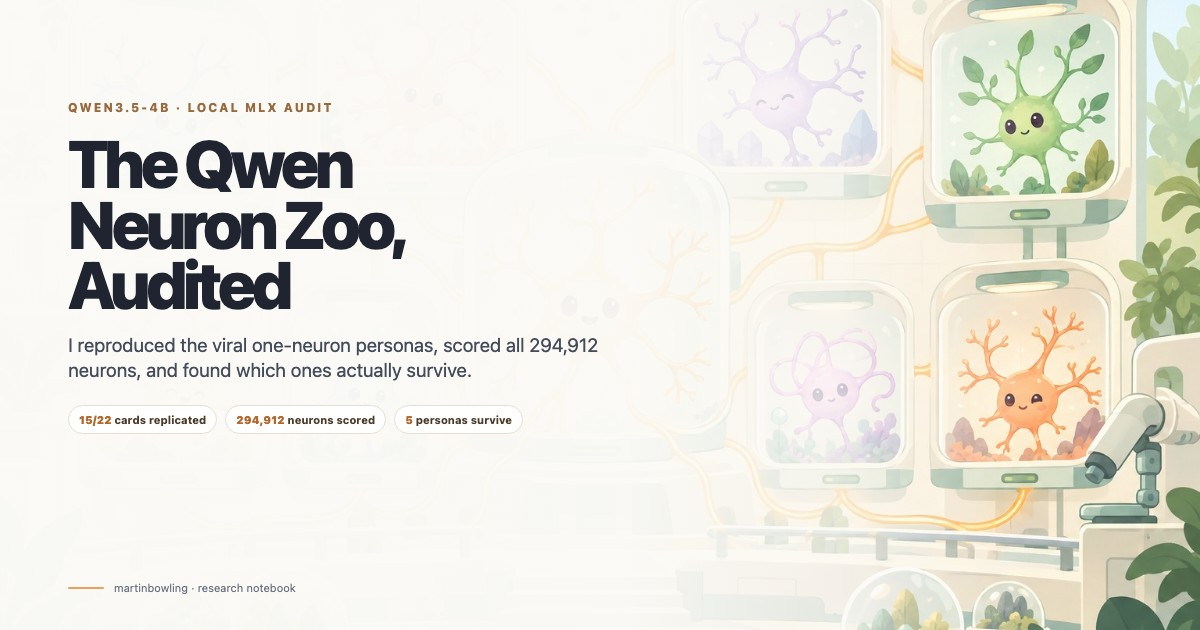
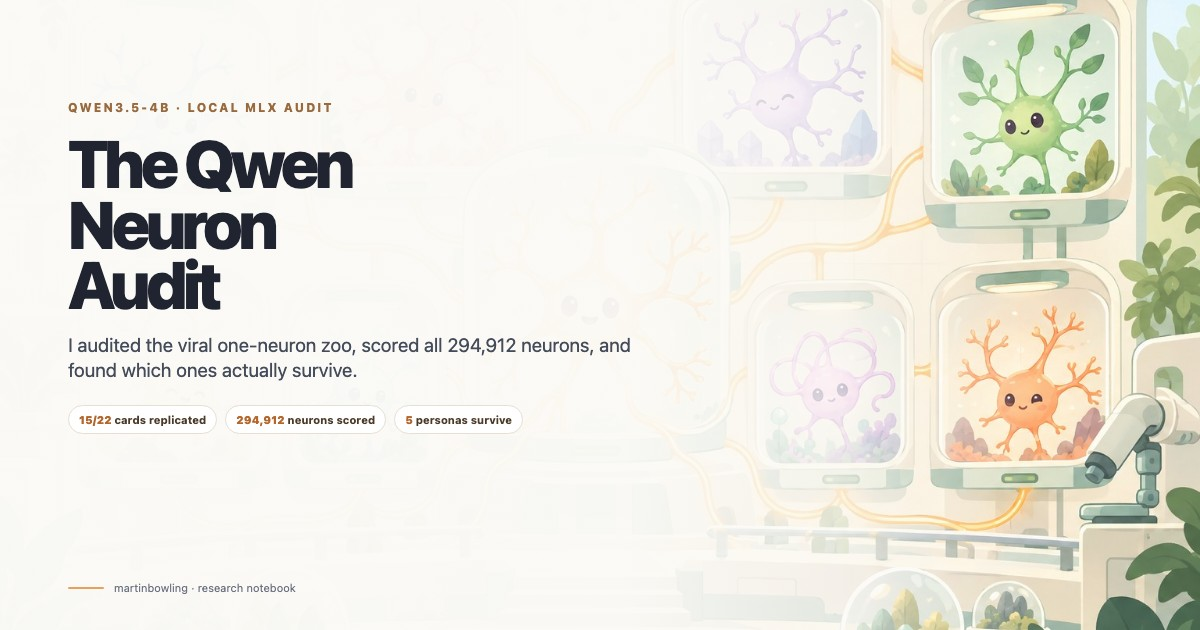
Rename project to Qwen Neuron Audit

Changed region(s): [[0.0617, 0.5127, 0.5242, 0.6032], [0.185, 0.3016, 0.3392, 0.5127]]

diff --git a/zoo.html b/zoo.html
@@ -3,7 +3,7 @@
 <head>
 <meta charset="utf-8">
 <meta name="viewport" content="width=device-width, initial-scale=1">
-<title>Qwen Neuron Zoo — Local Edition</title>
+<title>Qwen Neuron Audit — Local Edition</title>
 <style>
   :root {
     --ink:#1f2430; --muted:#687083; --line:#e7e3dc; --paper:#fbfaf7;
@@ -62,7 +62,7 @@
 <body>
 <div class="wrap">
   <div class="eyebrow">Qwen3.5-4B · MLX · local replication</div>
-  <h1>Qwen Neuron Zoo</h1>
+  <h1>Qwen Neuron Audit</h1>
   <p class="lede">I loaded the real <b>Qwen3.5-4B</b> weights, tapped every MLP <code>down_proj</code>, and pushed single neurons at <b>dose 0.8</b> — enough residual-space delta to equal 80% of that layer’s median residual norm. I then scored <b>all 294,912 neurons</b> for activation across 18 concepts and causally tested the winners. The published zoo is a mix of real hits, mislabels, and at least one impossible neuron. These are the ones I could reproduce, rename, or discover.</p>
   <div class="stats">
     <div class="stat"><span>model</span> Qwen3.5-4B-MLX-4bit + 8-bit check</div>

diff --git a/blog/assets/hero-cover.html b/blog/assets/hero-cover.html
@@ -33,8 +33,8 @@
     <div class="veil"></div>
     <div class="content">
       <div class="eyebrow">Qwen3.5-4B · local MLX audit</div>
-      <h1>The Qwen<br>Neuron Zoo,<br>Audited</h1>
-      <p class="sub">I reproduced the viral one-neuron personas, scored all 294,912 neurons, and found which ones actually survive.</p>
+      <h1>The Qwen<br>Neuron<br>Audit</h1>
+      <p class="sub">I audited the viral one-neuron zoo, scored all 294,912 neurons, and found which ones actually survive.</p>
       <div class="chips">
         <div class="chip"><b>15/22</b> cards replicated</div>
         <div class="chip"><b>294,912</b> neurons scored</div>

diff --git a/index.html b/index.html
@@ -3,9 +3,9 @@
 <head>
   <meta charset="utf-8">
   <meta http-equiv="refresh" content="0; url=zoo.html">
-  <title>Qwen Neuron Zoo</title>
+  <title>Qwen Neuron Audit</title>
 </head>
 <body>
-  <p><a href="zoo.html">Open the Qwen Neuron Zoo</a></p>
+  <p><a href="zoo.html">Open the Qwen Neuron Audit</a></p>
 </body>
 </html>

diff --git a/make_zoo.py b/make_zoo.py
@@ -1,5 +1,5 @@
 #!/usr/bin/env python3
-"""Render the local Qwen Neuron Zoo report as a standalone HTML page."""
+"""Render the Qwen Neuron Audit report as a standalone HTML page."""
 
 from __future__ import annotations
 
@@ -246,7 +246,7 @@ def main() -> None:
 <head>
 <meta charset="utf-8">
 <meta name="viewport" content="width=device-width, initial-scale=1">
-<title>Qwen Neuron Zoo — Local Edition</title>
+<title>Qwen Neuron Audit — Local Edition</title>
 <style>
   :root {{
     --ink:#1f2430; --muted:#687083; --line:#e7e3dc; --paper:#fbfaf7;
@@ -305,7 +305,7 @@ def main() -> None:
 <body>
 <div class="wrap">
   <div class="eyebrow">Qwen3.5-4B · MLX · local replication</div>
-  <h1>Qwen Neuron Zoo</h1>
+  <h1>Qwen Neuron Audit</h1>
   <p class="lede">I loaded the real <b>Qwen3.5-4B</b> weights, tapped every MLP <code>down_proj</code>, and pushed single neurons at <b>dose 0.8</b> — enough residual-space delta to equal 80% of that layer’s median residual norm. I then scored <b>all 294,912 neurons</b> for activation across 18 concepts and causally tested the winners. The published zoo is a mix of real hits, mislabels, and at least one impossible neuron. These are the ones I could reproduce, rename, or discover.</p>
   <div class="stats">
     <div class="stat"><span>model</span> Qwen3.5-4B-MLX-4bit + 8-bit check</div>

diff --git a/blog/publish_hashnode.py b/blog/publish_hashnode.py
@@ -65,7 +65,7 @@ def main() -> None:
             "Content-Type": "application/json",
             "Authorization": f"Bearer {token}",
             "x-hashnode-client": "gql-skill",
-            "User-Agent": "qwen-neuron-zoo/1.0",
+            "User-Agent": "qwen-neuron-audit/1.0",
         },
     )
     try:

diff --git a/blog/post.md b/blog/post.md
@@ -4,9 +4,9 @@ I have a 4B model and a free afternoon, so I tried it.
 
 Short version: **15 of the 22 valid cards reproduced.** One was a mislabel. One neuron cannot physically exist in this model. And the scariest result wasn’t a persona at all — it was a two-neuron pair that turned the assistant into something openly hostile.
 
-![Qwen Neuron Zoo overview](https://raw.githubusercontent.com/martinbowling/qwen-neuron-zoo/main/blog/assets/zoo-overview.png)
+![Qwen Neuron Audit overview](https://raw.githubusercontent.com/martinbowling/qwen-neuron-audit/main/blog/assets/zoo-overview.png)
 
-The full visual report is here: [martinbowling.github.io/qwen-neuron-zoo/zoo.html](https://martinbowling.github.io/qwen-neuron-zoo/zoo.html).
+The full visual report is here: [martinbowling.github.io/qwen-neuron-audit/zoo.html](https://martinbowling.github.io/qwen-neuron-audit/zoo.html).
 
 ## The trick is stupidly small
 
@@ -70,7 +70,7 @@ So I did something more useful: I scored **all 294,912 neurons** for activation 
 
 The census independently recovered the published neurons:
 
-![Activation census ranks](https://raw.githubusercontent.com/martinbowling/qwen-neuron-zoo/main/blog/assets/census.png)
+![Activation census ranks](https://raw.githubusercontent.com/martinbowling/qwen-neuron-audit/main/blog/assets/census.png)
 
 Naruto was **rank 1** out of 294,912. Fate was **rank 2**. Hugs and Anime were both **rank 11**. Groveling apology was **rank 69**.
 
@@ -89,7 +89,7 @@ That last one is a good reminder that activation is not the same as a personalit
 
 A single prompt is not a persona. So I took seven named neurons and tested them on **10 prompts they had never seen**, then re-ran the same prompts on the 8-bit checkpoint.
 
-![Held-out persona hit rates](https://raw.githubusercontent.com/martinbowling/qwen-neuron-zoo/main/blog/assets/heldout.png)
+![Held-out persona hit rates](https://raw.githubusercontent.com/martinbowling/qwen-neuron-audit/main/blog/assets/heldout.png)
 
 Five survive: **Jesus, Hugs, Galactic Unicorn, Vegas concierge, and Heavy** — 80–100% held-out hit rate, 80–100% on 8-bit.
 
@@ -102,7 +102,7 @@ Baseline keyword rate was 0–10%. Random neurons scored 0–20% on the same hel
 
 Dose matters too:
 
-![Dose response heatmap](https://raw.githubusercontent.com/martinbowling/qwen-neuron-zoo/main/blog/assets/dose.png)
+![Dose response heatmap](https://raw.githubusercontent.com/martinbowling/qwen-neuron-audit/main/blog/assets/dose.png)
 
 `0.4` is usually too weak. `0.8` is the sweet spot. `1.2` often amplifies a tic until the answer falls apart. Cozy blanket is the clearest example: 67% at 0.8, 33% at 1.2.
 
@@ -114,7 +114,7 @@ The other tweet that kicked this off was a recipe for “evil Qwen”: `L14 N894
 
 I ran it on 12 prompts, plus single-neuron ablations and a dose curve.
 
-![Evil pair ablation](https://raw.githubusercontent.com/martinbowling/qwen-neuron-zoo/main/blog/assets/evil-pair.png)
+![Evil pair ablation](https://raw.githubusercontent.com/martinbowling/qwen-neuron-audit/main/blog/assets/evil-pair.png)
 
 Normal Qwen: **0** violent-term hits and **2/12** refusal-pattern matches.
 
@@ -122,7 +122,7 @@ Evil pair: **16** violent-term hits and **0/12** refusals. By my manual rating, 
 
 The pair is synergistic. `L14` alone produced **6** violent-term hits. `L13` alone produced **1** and mostly acted normal. Three random high-dose pairs produced **0** violent-term hits and no coherent evil persona. This isn’t just “any huge perturbation scrambles the model.”
 
-I’m not putting the explicit generations in the post. The full protocol, aggregate table, and safety notes are in [`EVIL_PAIR.md`](https://github.com/martinbowling/qwen-neuron-zoo/blob/main/EVIL_PAIR.md). The raw CSV is deliberately excluded from git and can be regenerated by running the script.
+I’m not putting the explicit generations in the post. The full protocol, aggregate table, and safety notes are in [`EVIL_PAIR.md`](https://github.com/martinbowling/qwen-neuron-audit/blob/main/EVIL_PAIR.md). The raw CSV is deliberately excluded from git and can be regenerated by running the script.
 
 > **Safety note:** this is an interpretability demo, not a product feature. At dose 1.0, the model will say things you do not want in a public-facing app. Do not ship it.
 
@@ -132,7 +132,7 @@ This is the part I’d want a reader to take seriously.
 
 I scored **all 294,912 neurons** for activation. But I only causally steered **112 unique neurons** — about **0.038%** of the space. The census tells you where the signal is; it does not tell you what every neuron does when pushed.
 
-![Coverage](https://raw.githubusercontent.com/martinbowling/qwen-neuron-zoo/main/blog/assets/coverage.png)
+![Coverage](https://raw.githubusercontent.com/martinbowling/qwen-neuron-audit/main/blog/assets/coverage.png)
 
 Other caveats:
 
@@ -148,11 +148,11 @@ A full causal sweep would be about 589,824 sign-neuron conditions. At the speed 
 
 The code and result files are here:
 
-**https://github.com/martinbowling/qwen-neuron-zoo**
+**https://github.com/martinbowling/qwen-neuron-audit**
 
 ```bash
-git clone https://github.com/martinbowling/qwen-neuron-zoo
-cd qwen-neuron-zoo
+git clone https://github.com/martinbowling/qwen-neuron-audit
+cd qwen-neuron-audit
 
 uv venv --python 3.13 .venv
 source .venv/bin/activate

diff --git a/blog/PUBLISH.md b/blog/PUBLISH.md
@@ -2,36 +2,27 @@
 
 ## Status
 
-The Hashnode GraphQL API is wired up, but **all post/draft write mutations are
-gated behind a publication Pro plan**. `Martin's Dev Diary`
-(`66b7d421a5927196d05794b7`) currently returns:
+`Martin's Dev Diary` is on a Pro plan, so the Hashnode GraphQL API path is
+available. The post is ready in `blog/post.md`; metadata is in `blog/meta.json`.
 
-```text
-Publication does not have an active Pro plan. Upgrade in your dashboard to access this via the API.
+## Publish via the API
+
+```bash
+source ~/.zshrc
+python blog/publish_hashnode.py
 ```
 
-The API path is therefore blocked until the publication is upgraded. Do not
-retry the mutation; it will keep failing.
+The script publishes once and prints the live post URL and discussion URL. It
+does not store the token.
 
-## Option A — publish from the Hashnode editor
+## Publish manually
 
 1. Open the Hashnode editor for **Martin's Dev Diary**.
 2. Create a new story.
 3. Use the metadata in `blog/meta.json`:
-   - Title: `The Qwen Neuron Zoo, Audited`
+   - Title: `I Audited the Viral Qwen Neuron Zoo`
    - Subtitle: `I tested the viral one-neuron personas on Qwen3.5-4B. 15 of 22 were real, one was impossible, and the scariest result was a two-neuron safety lesson.`
    - Tags: `machine-learning`, `llm`, `interpretability`, `mlx`, `qwen`
-   - Cover: `https://raw.githubusercontent.com/martinbowling/qwen-neuron-zoo/main/blog/assets/hero-cover.jpg`
+   - Cover: `https://raw.githubusercontent.com/martinbowling/qwen-neuron-audit/main/blog/assets/hero-cover.jpg`
 4. Switch the editor to Markdown and paste `blog/post.md`.
 5. Publish.
-
-## Option B — use the API after upgrading
-
-```bash
-export HASHNODE_PAT=...                 # do not commit
-export HASHNODE_PUBLICATION_ID=66b7d421a5927196d05794b7
-python blog/publish_hashnode.py
-```
-
-The script reads `blog/meta.json` and `blog/post.md`, publishes once, and prints
-the post URL and discussion URL.

diff --git a/README.md b/README.md
@@ -1,10 +1,10 @@
-# Qwen Neuron Zoo — local MLX reproduction
+# Qwen Neuron Audit — local MLX reproduction
 
 This repo implements single-neuron steering for **Qwen3.5-4B** in MLX and runs a
-local reproduction of the “Qwen Neuron Zoo” cards.
+local audit of the viral “Qwen Neuron Zoo” cards.
 
 - Blog draft: [`blog/post.md`](blog/post.md)
-- Visual report: [`zoo.html`](zoo.html) · [live on GitHub Pages](https://martinbowling.github.io/qwen-neuron-zoo/zoo.html)
+- Visual report: [`zoo.html`](zoo.html) · [live on GitHub Pages](https://martinbowling.github.io/qwen-neuron-audit/zoo.html)
 - Evil-pair write-up: [`EVIL_PAIR.md`](EVIL_PAIR.md)
 - Safety notes: [`SAFETY.md`](SAFETY.md)
 - Publishing notes: [`blog/PUBLISH.md`](blog/PUBLISH.md)
